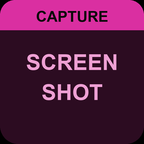
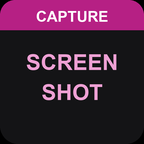
Key style: dark bands, white captions, plain body (0.1.0.33)
Owner's pick 2026-11-07 ("A without glow"): bands at 42% lightness,
darkened further where white would read under 3:1 (yellows, limes, amber),
white caption on every band, plain charcoal body. SPOT VIEWS (Orbit theme)
takes American's blue so it no longer reads as Pilot's cyan. SimDeck and
CP Test Bed keys redrawn the same way.

diff --git a/src/chaseplane/themes.ts b/src/chaseplane/themes.ts
@@ -13,7 +13,8 @@ const THEMES: Record<string, [number, number]> = {
 	OUTSIDE_AIRFRAME: [94, 100],
 	OUTSIDE_CABIN: [250, 76],
 	OUTSIDE_CHASE: [8, 98],
-	OUTSIDE_ORBIT: [195, 86],
+	// Ours, not ChasePlane's: its Orbit cyan (195) read as Pilot's (190); American's blue #194F90 (owner, 2026-11-07).
+	OUTSIDE_ORBIT: [213, 70],
 	OUTSIDE_MISC: [15, 21],
 	WORLD_DEFAULT: [259, 84],
 	WORLD_TOWER: [108, 40],
@@ -34,24 +35,47 @@ function hsl(h: number, s: number, l: number): string {
 	return `#${[f(0), f(8), f(4)].map((x) => Math.round(x * 255).toString(16).padStart(2, "0")).join("").toUpperCase()}`;
 }
 
+type PanelColors = { deep: string; band: string; text: string; on: string };
+
+/** The key body: plain charcoal, the color only in the band and the name (owner, 2026-11-07: "A without glow"). */
+const BODY = "#141416";
+/** The neutral key, for keys without a theme. */
+const NEUTRAL: PanelColors = { deep: BODY, band: "#5C5C64", text: "#E1E1E1", on: "#3DDC84" };
+
+/** Relative luminance (WCAG) of a "#RRGGBB" color. */
+function luminance(color: string): number {
+	const lin = (v: number) => (v <= 0.03928 ? v / 12.92 : ((v + 0.055) / 1.055) ** 2.4);
+	const [r, g, b] = [1, 3, 5].map((i) => lin(parseInt(color.slice(i, i + 2), 16) / 255));
+	return 0.2126 * r + 0.7152 * g + 0.0722 * b;
+}
+
+/** White caption needs at least 3:1 contrast with its band. */
+const WHITE_MIN_CONTRAST = 3;
+
 /**
- * Panel key colors (the deck's key style, owner's pick 2026-10-31): `deep` fills the key, `band`
- * is the caption band, `text` the name, `on` the active ring. Without a theme, neutral grey with
- * green for "on".
+ * Band at 42% lightness for the white caption every key now uses (owner, 2026-11-07), darkened
+ * further where a bright hue (yellow, lime, amber) would still be too light for white.
  */
-export function panelColors(theme?: string): { deep: string; band: string; text: string; on: string } {
+function panel(h: number, s: number): PanelColors {
+	let l = 42;
+	while (l > 24 && 1.05 / (luminance(hsl(h, s, l)) + 0.05) < WHITE_MIN_CONTRAST) l -= 1;
+	return { deep: BODY, band: hsl(h, s, l), text: hsl(h, s, 78), on: hsl(h, s, 60) };
+}
+
+/**
+ * Panel key colors (the deck's key style): `deep` fills the key, `band` is the caption band (white
+ * caption), `text` the name, `on` the active ring. Without a theme, neutral grey with green for "on".
+ */
+export function panelColors(theme?: string): PanelColors {
 	const hs = theme ? THEMES[theme] : undefined;
-	// Neutral band light enough for black caption text (owner: dark grey with black was too little contrast).
-	if (!hs) return { deep: "#16161A", band: "#A8A8B0", text: "#E1E1E1", on: "#3DDC84" };
-	const [h, s] = hs;
-	return { deep: hsl(h, s * 0.8, 11), band: hsl(h, s, 52), text: hsl(h, s, 78), on: hsl(h, s, 60) };
+	return hs ? panel(...hs) : NEUTRAL;
 }
 
 /**
  * Panel colors from any color ("#9FC3E7" or "hsl(210, 65%, 64%)"), with the same recipe as the themes:
  * used for airline colors on traffic keys. White or grey (no hue) gives the neutral key.
  */
-export function panelColorsFor(color: string): { deep: string; band: string; text: string; on: string } {
+export function panelColorsFor(color: string): PanelColors {
 	let h = 0;
 	let s = 0;
 	const hslMatch = /hsl\(\s*([\d.]+)\s*,\s*([\d.]+)%/i.exec(color);
@@ -70,8 +94,7 @@ export function panelColorsFor(color: string): { deep: string; band: string; tex
 			if (h < 0) h += 360;
 		}
 	}
-	if (s < 8) return panelColors();
-	return { deep: hsl(h, s * 0.8, 11), band: hsl(h, s, 52), text: hsl(h, s, 78), on: hsl(h, s, 60) };
+	return s < 8 ? NEUTRAL : panel(h, s);
 }
 
 /** Glow (55%) and text (72%) colors for a ChasePlane theme. */

diff --git a/src/actions/key-style.ts b/src/actions/key-style.ts
@@ -104,13 +104,8 @@ function styleA(look: KeyLook): string {
 	);
 }
 
-/** Black or white, whichever reads better on `background` (WCAG contrast; dark bands such as Cabin's purple get white). */
-function ink(background: string): string {
-	const lin = (v: number) => (v <= 0.03928 ? v / 12.92 : ((v + 0.055) / 1.055) ** 2.4);
-	const [r, g, b] = [1, 3, 5].map((i) => lin(parseInt(background.slice(i, i + 2), 16) / 255));
-	const l = 0.2126 * r + 0.7152 * g + 0.0722 * b;
-	return (l + 0.05) / 0.05 >= 1.05 / (l + 0.05) ? "#0A0A0A" : "#FFFFFF";
-}
+/** Caption text on every band: white, with the bands kept dark enough for it (owner, 2026-11-07). */
+const INK = "#FFFFFF";
 
 function styleB(look: KeyLook): string {
 	const c = look.color ? panelColorsFor(look.color) : panelColors(look.theme);
@@ -120,7 +115,7 @@ function styleB(look: KeyLook): string {
 		`<rect width="144" height="144" rx="18" fill="${c.deep}"/>` +
 		(look.caption
 			? `<rect width="144" height="${band}" rx="18" fill="${c.band}"/><rect y="16" width="144" height="${band - 16}" fill="${c.band}"/>` +
-				captionText(21, look.caption, ink(c.band))
+				captionText(21, look.caption, INK)
 			: "") +
 		(look.active ? `<rect x="3" y="3" width="138" height="138" rx="16" fill="none" stroke="${on}" stroke-width="5"/>` : "") +
 		nameText(look, look.caption ? band : 0, look.active ? "#FFFFFF" : c.text) +
@@ -152,7 +147,7 @@ export function stripImage(look: StripLook): string {
 		`<rect width="200" height="100" fill="#000000"/>` +
 		`<rect x="2" y="2" width="196" height="96" rx="14" fill="${c.deep}"/>` +
 		`<rect x="2" y="2" width="196" height="${band}" rx="14" fill="${c.band}"/><rect x="2" y="14" width="196" height="${band - 12}" fill="${c.band}"/>` +
-		line(19, 14, look.caption, ink(c.band), 180) +
+		line(19, 14, look.caption, INK, 180) +
 		(look.active ? `<rect x="4" y="4" width="192" height="92" rx="12" fill="none" stroke="${on}" stroke-width="3"/>` : "") +
 		valueSvg +
 		(look.sub ? line(90, 13, look.sub, look.active ? on : c.text, 184) : "") +

diff --git a/tools/testbed_images/panel_keys.py b/tools/testbed_images/panel_keys.py
@@ -39,6 +39,18 @@ def hsl(h, s, l):
     r, g, b = colorsys.hls_to_rgb(h / 360, l / 100, s / 100)
     return (round(r * 255), round(g * 255), round(b * 255))
 
+def luminance(rgb):
+    lin = lambda v: v / 12.92 if v <= 0.03928 else ((v + 0.055) / 1.055) ** 2.4
+    return 0.2126 * lin(rgb[0] / 255) + 0.7152 * lin(rgb[1] / 255) + 0.0722 * lin(rgb[2] / 255)
+
+def for_white(rgb):
+    """Darkens a band until white text has 3:1 contrast, as the plugin does (bright yellows, limes, ambers)."""
+    h, l, s = colorsys.rgb_to_hls(*(v / 255 for v in rgb))
+    while l > 0.24 and 1.05 / (luminance(rgb) + 0.05) < 3:
+        l -= 0.01
+        rgb = tuple(round(v * 255) for v in colorsys.hls_to_rgb(h, l, s))
+    return rgb
+
 def ink(rgb):
     lin = lambda v: v / 12.92 if v <= 0.03928 else ((v + 0.055) / 1.055) ** 2.4
     l = 0.2126 * lin(rgb[0] / 255) + 0.7152 * lin(rgb[1] / 255) + 0.0722 * lin(rgb[2] / 255)
@@ -53,8 +65,10 @@ def fit(d, text, base, width=128):
 
 def draw(caption, l1, l2, app):
     h, sat = APPS[app]
-    DEEP, BAND, TEXT = hsl(h, sat * 0.8, 11), EXACT_BAND.get(app, hsl(h, sat, 52)), hsl(h, sat, 78)
-    INK = ink(BAND)
+    # The plugin's style since 2026-11-07: plain charcoal body, band at 42%, white caption (owner: "A without glow").
+    DEEP, BAND, TEXT = (20, 20, 22), EXACT_BAND.get(app, hsl(h, sat, 42) if sat else (0x5C, 0x5C, 0x64)), hsl(h, sat, 78) if sat else (225, 225, 225)
+    BAND = for_white(BAND)
+    INK = (255, 255, 255)
     im = Image.new("RGB", (K, K), (0, 0, 0)); d = ImageDraw.Draw(im)
     d.rounded_rectangle([0, 0, K - 1, K - 1], 18 * S, fill=DEEP)
     d.rounded_rectangle([0, 0, K - 1, 30 * S], 18 * S, fill=BAND); d.rectangle([0, 16 * S, K - 1, 30 * S], fill=BAND)

diff --git a/tools/docs/make_guide.py b/tools/docs/make_guide.py
@@ -70,7 +70,7 @@ story.append(Spacer(1, 6))
 P("Setup guide: your ChasePlane cameras on the Stream Deck, organised the way you organise them in ChasePlane.", subtitle)
 story.append(Spacer(1, 18))
 picture("docs/guide_home.png", "The home screen: your ChasePlane groups on the keys, and the camera dials and touch strip below.")
-P("ACMS Digital Systems · Camera Deck for ChasePlane 0.1.0.31 · Microsoft Flight Simulator 2024", note)
+P("ACMS Digital Systems · Camera Deck for ChasePlane 0.1.0.33 · Microsoft Flight Simulator 2024", note)
 story.append(PageBreak())
 
 # ---- 1
